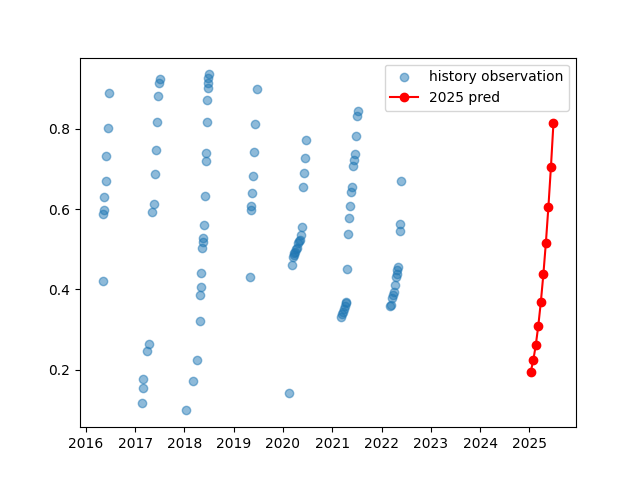
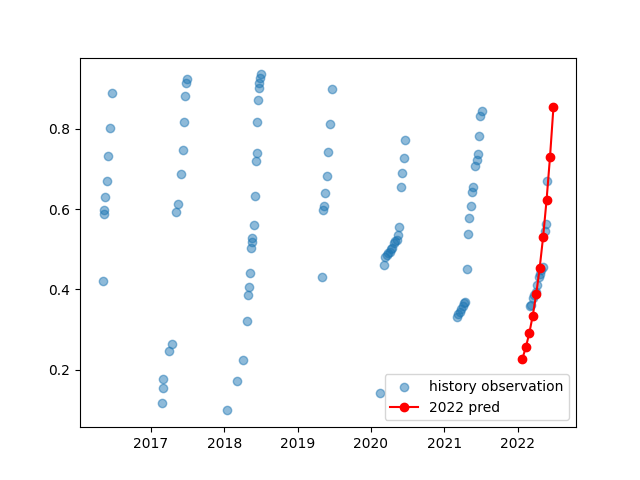
Q2_polynomial

diff --git a/25NKUMCM-C/Q2.py b/25NKUMCM-C/Q2.py
@@ -34,7 +34,7 @@ df=process(df)
 df['date'] = pd.to_datetime(df['date'])
 df['year'] = df['date'].dt.year
 
-year_start = pd.to_datetime(df['year'].astype(str) + '-01-01')
+year_start = pd.to_datetime(df['year'].astype(str) + '-01-16')
 year_next = pd.to_datetime(df['year'].astype(str) + '-07-07')
 df['progress'] = (df['date'] - year_start).dt.total_seconds() / (year_next - year_start).dt.total_seconds()
 
@@ -43,7 +43,7 @@ cov_df=pd.read_excel('./extra_data.xlsx')
 df = df.merge(cov_df, on='year', how='left')
 
 progress = df['progress'].values.reshape(-1,1)
-poly = PolynomialFeatures(degree=2, include_bias=False)
+poly = PolynomialFeatures(degree=3, include_bias=False)
 P = poly.fit_transform(progress)
 
 cov_names = ['ratio_gdp','num_student','num_laborer','ratio_urban']
@@ -61,12 +61,13 @@ y = df['rate'].values
 alphas = np.logspace(-6, 6, 25)
 model = RidgeCV(alphas=alphas, cv=5).fit(X, y)
 
-future_year = 2025
+future_year = 2022
 
-ratio_gdp_2025 = 5
-num_student_2025 = 670 
-num_laborer_2025 = 8.7
-ratio_urban_2025 = 66.3
+ratio_gdp_2025 = 3.1
+num_student_2025 = 704.2
+num_laborer_2025 = 8.76
+ratio_urban_2025 = 65.22
+
 cov_future = np.array([ratio_gdp_2025,num_student_2025,num_laborer_2025,ratio_urban_2025])
 
 future_progress = np.linspace(0.05, 0.95, 10)
@@ -80,7 +81,7 @@ X_f = np.hstack([P_f, C_f, inter_f])
 
 y_f = model.predict(X_f)
 
-start = pd.to_datetime(f"{future_year}-01-01")
+start = pd.to_datetime(f"{future_year}-01-16")
 end = pd.to_datetime(f"{future_year}-07-07")
 future_dates = [start + (end - start) * p for p in future_progress]
 

diff --git a/25NKUMCM-C/Q2_preds.md b/25NKUMCM-C/Q2_preds.md
@@ -1,11 +1,11 @@
                            date  pred_rate
-0 2025-01-10 08:24:00.000000000   0.194495
-1 2025-01-29 01:12:00.000000000   0.222672
-2 2025-02-16 18:00:00.000000000   0.261033
-3 2025-03-07 10:48:00.000000000   0.309576
-4 2025-03-26 03:35:59.999999999   0.368303
-5 2025-04-13 20:23:59.999999999   0.437213
-6 2025-05-02 13:12:00.000000000   0.516305
-7 2025-05-21 06:00:00.000000000   0.605581
-8 2025-06-08 22:48:00.000000000   0.705040
-9 2025-06-27 15:36:00.000000000   0.814682
+0 2022-01-24 14:24:00.000000000   0.226977
+1 2022-02-10 19:12:00.000000000   0.255304
+2 2022-02-28 00:00:00.000000000   0.290545
+3 2022-03-17 04:48:00.000000000   0.334173
+4 2022-04-03 09:35:59.999999999   0.387660
+5 2022-04-20 14:23:59.999999999   0.452479
+6 2022-05-07 19:12:00.000000000   0.530100
+7 2022-05-25 00:00:00.000000000   0.621998
+8 2022-06-11 04:48:00.000000000   0.729644
+9 2022-06-28 09:36:00.000000000   0.854510
